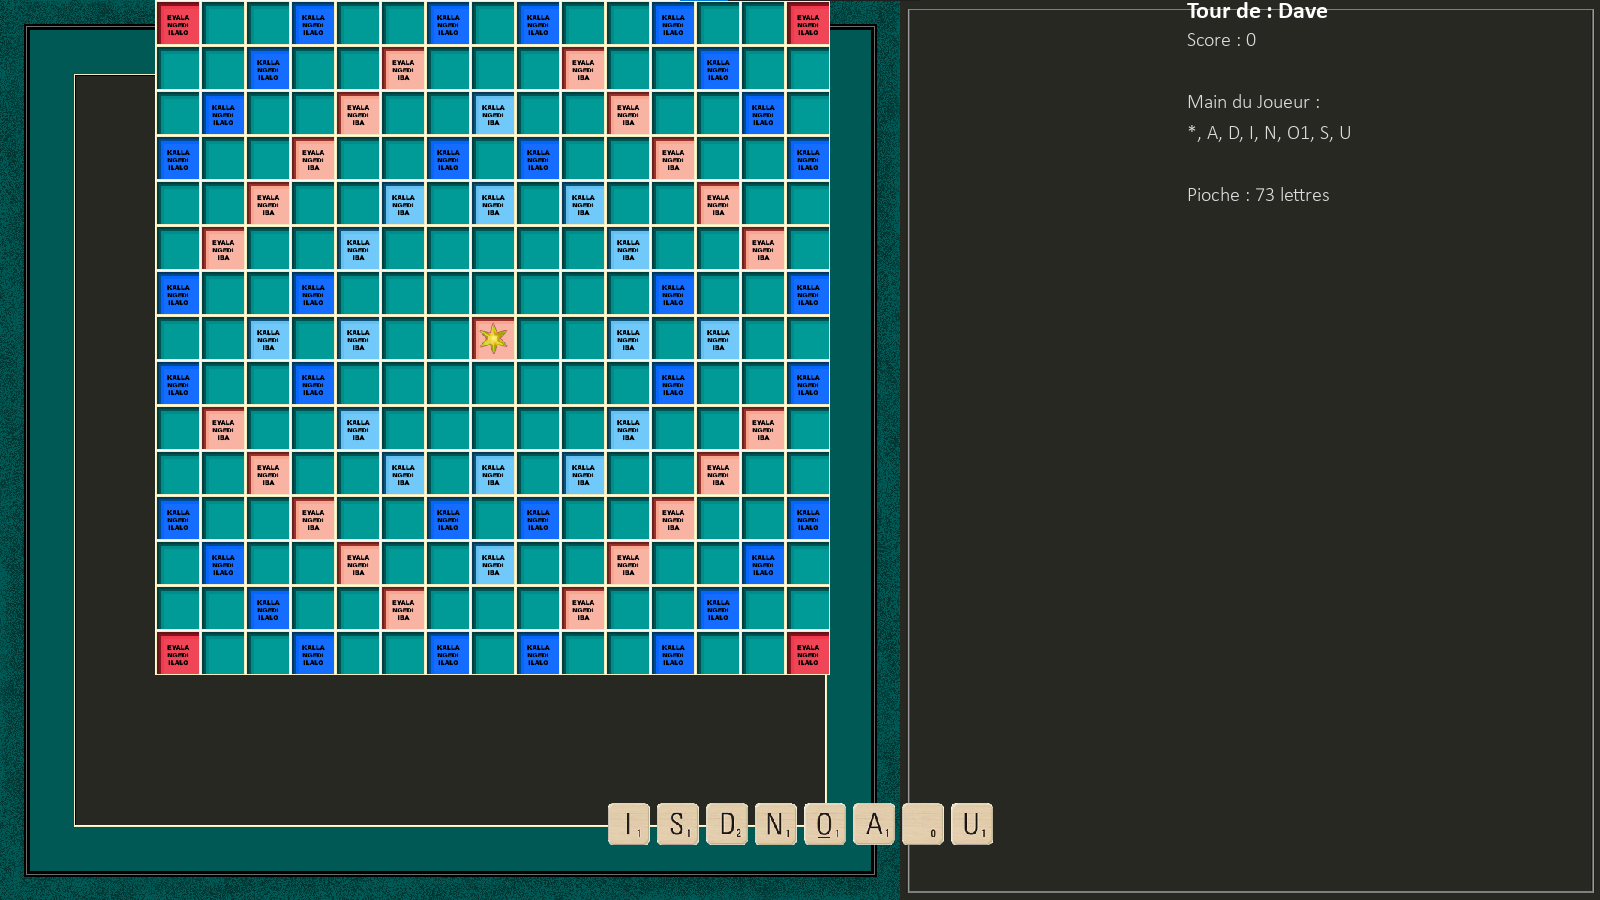
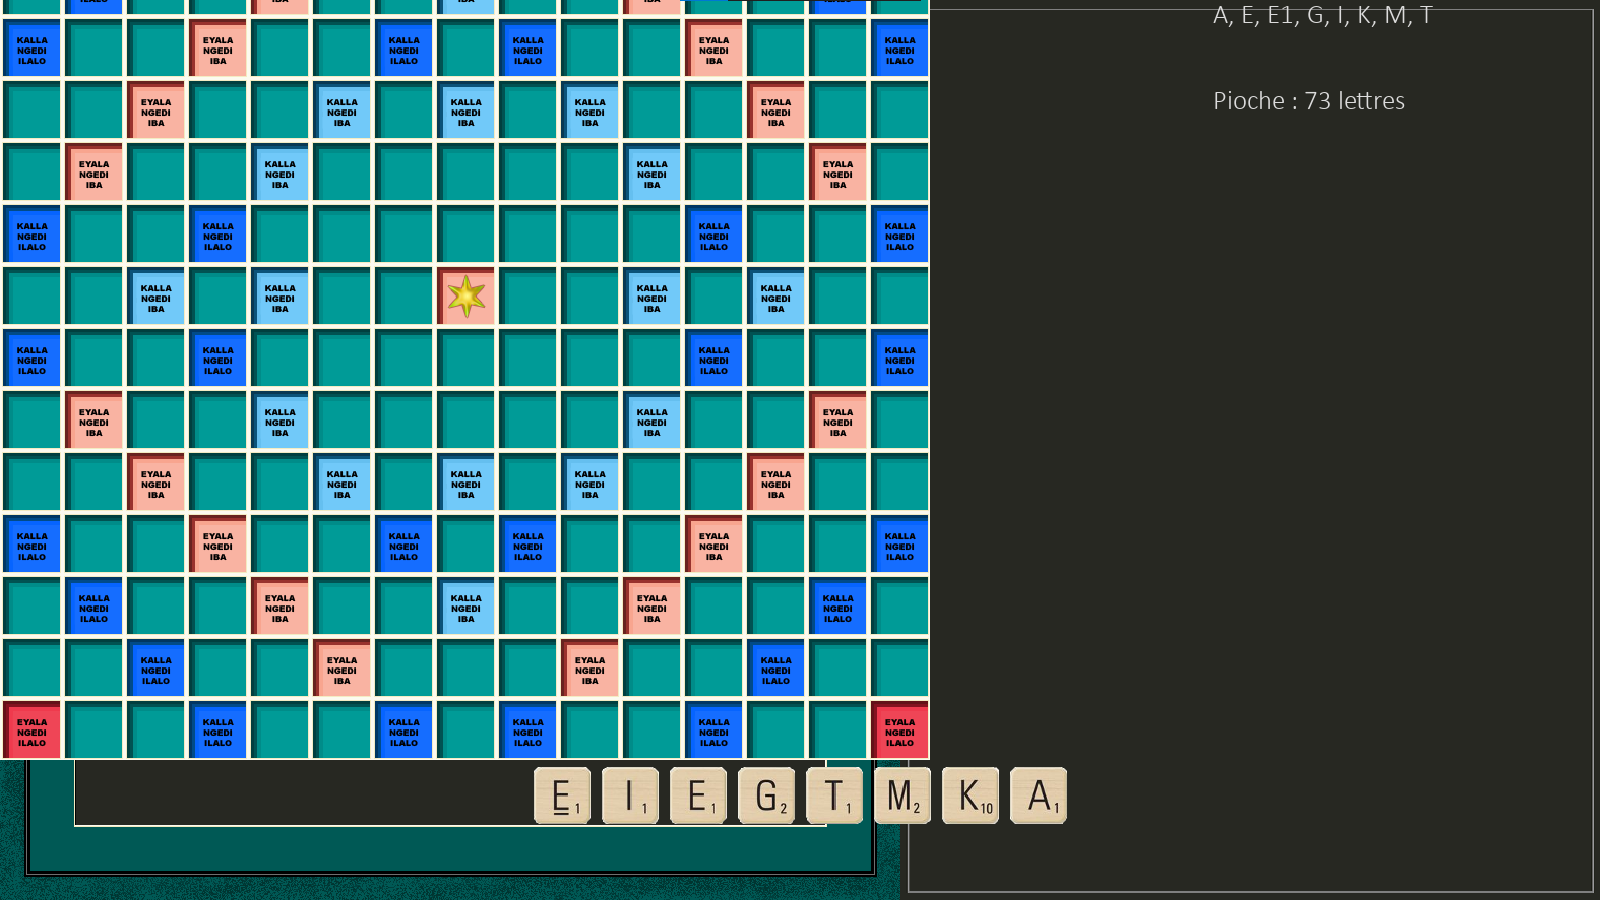
upd

diff --git a/Elomban_v1.0a/modules/display.py b/Elomban_v1.0a/modules/display.py
@@ -14,10 +14,8 @@ class DisplayManager:
         # dimensions "bloc" vertical (plateau + chevalet)
         total_units_vertical = BOARD_DIMENSION + (2 * DELTA) + self.CHEVALET_HEIGHT_TILES
 
-        # Taille max possible d'une tuile pour que tout tienne dans la zone verte
-        max_tile_size_horiz = int(self.zone_jeu_width / total_units_horizontal)
-        max_tile_size_vert = int(self.screen_height / total_units_vertical)
-        self.tile_size = min(max_tile_size_vert, max_tile_size_horiz)
+        # La tuile prend toute la largeur de la zone verte (plus de marge horizontale)
+        self.tile_size = int(self.zone_jeu_width / total_units_horizontal)
 
         # recalcul des dimensions réelles utilisées
         total_board_width_pixels = total_units_horizontal * self.tile_size
@@ -26,8 +24,8 @@ class DisplayManager:
 
         bloc_total_height = total_board_height_pixels + chevalet_height_pixels
 
-        # CENTRAGE horizontal dans la zone verte
-        self.board_offset_x = int((self.zone_jeu_width - total_board_width_pixels) / 2)
+        # Plateau collé à gauche de la zone verte
+        self.board_offset_x = 0
         # CENTRAGE vertical dans la fenêtre pour tout le bloc (plateau+chevalet)
         self.board_offset_y = int((self.screen_height - bloc_total_height) / 2)
 
